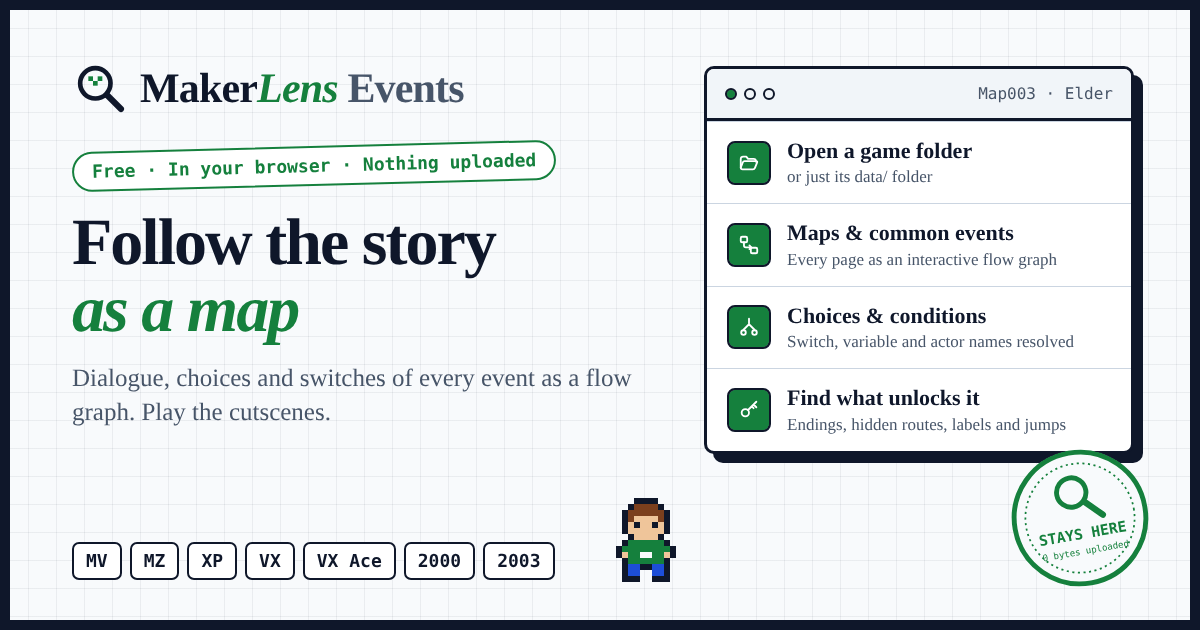
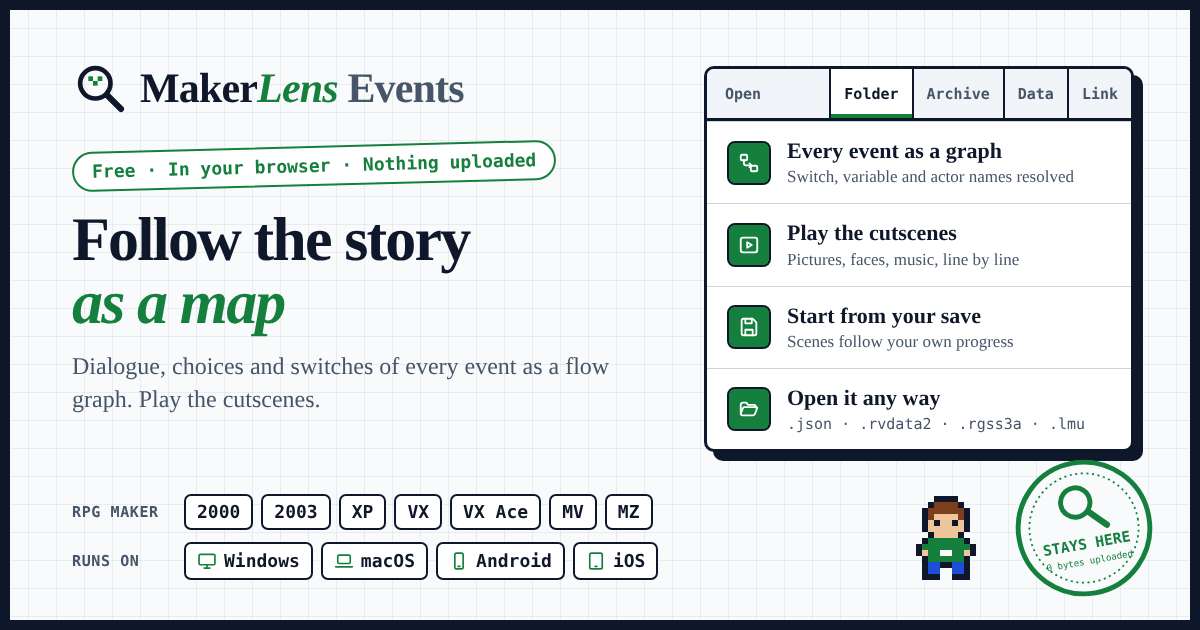
feat: versions in release order, new share image, family header in the app (#58)

diff --git a/faq.html b/faq.html
@@ -10,20 +10,20 @@
      (js/analytics.js). No feedback form here, so connect-src is 'none'. -->
 <meta http-equiv="Content-Security-Policy" content="default-src 'self'; script-src 'self'; style-src 'self'; img-src 'self' https://makerlens.goatcounter.com; connect-src 'none'; object-src 'none'; base-uri 'none'; form-action 'none'">
 <title>RPG Maker Event Viewer FAQ — Folders, Scenes, Saves | MakerLens</title>
-<meta name="description" content="How to view RPG Maker MV, MZ, VX Ace, VX, XP and 2000/2003 events without the editor: which folder to open, what the flow graph shows, finding what unlocks an ending, switch names, privacy.">
+<meta name="description" content="How to view RPG Maker 2000/2003, XP, VX, VX Ace, MV and MZ events without the editor: which folder to open, what the flow graph shows, finding what unlocks an ending, switch names, privacy.">
 <link rel="canonical" href="https://makerlens.kokoroou.workers.dev/events/faq.html"> <!-- nosemgrep: html.security.audit.missing-integrity.missing-integrity -- a canonical URL, not a fetched resource -->
 <meta property="og:type" content="website">
 <meta property="og:site_name" content="MakerLens">
 <meta property="og:url" content="https://makerlens.kokoroou.workers.dev/events/faq.html">
 <meta property="og:title" content="RPG Maker Event Viewer FAQ — Folders, Scenes, Saves | MakerLens">
-<meta property="og:description" content="View RPG Maker MV, MZ, VX Ace, VX, XP and 2000/2003 events as a flow graph without the editor: what to open, what the graph shows and how to find what unlocks an ending.">
+<meta property="og:description" content="View RPG Maker 2000/2003, XP, VX, VX Ace, MV and MZ events as a flow graph without the editor: what to open, what the graph shows and how to find what unlocks an ending.">
 <meta property="og:image" content="https://makerlens.kokoroou.workers.dev/events/og-image.png">
 <meta property="og:image:width" content="1200">
 <meta property="og:image:height" content="630">
 <meta property="og:image:alt" content="MakerLens Events — RPG Maker events as a flow graph, in your browser">
 <meta name="twitter:card" content="summary_large_image">
 <meta name="twitter:title" content="RPG Maker Event Viewer FAQ — Folders, Scenes, Saves | MakerLens">
-<meta name="twitter:description" content="View RPG Maker MV, MZ, VX Ace, VX, XP and 2000/2003 events as a flow graph without the editor: what to open, what the graph shows and how to find what unlocks an ending.">
+<meta name="twitter:description" content="View RPG Maker 2000/2003, XP, VX, VX Ace, MV and MZ events as a flow graph without the editor: what to open, what the graph shows and how to find what unlocks an ending.">
 <meta name="twitter:image" content="https://makerlens.kokoroou.workers.dev/events/og-image.png">
 <meta name="twitter:image:alt" content="MakerLens Events — RPG Maker events as a flow graph, in your browser">
 <!-- FAQPage: questions and answers must match the visible <details> below
@@ -62,7 +62,7 @@
       "name": "Which RPG Maker versions are supported?",
       "acceptedAnswer": {
         "@type": "Answer",
-        "text": "RPG Maker MZ, MV, VX Ace, VX, XP and 2000 / 2003. MV and MZ keep events in plain JSON. VX Ace, VX and XP keep them in Ruby files (.rvdata2, .rvdata, .rxdata), usually packed in Game.rgss3a, .rgss2a or .rgssad. Open the game folder and they are read from the archive in your browser. 2000 / 2003 keep them in RPG_RT.ldb, RPG_RT.lmt and Map####.lmu in the game folder itself. Their Japanese (Shift-JIS) or Western text is recognised, and scene previews take pictures from Picture/ and sound from Music/ and Sound/. For the images and audio of every version, use MakerLens Assets."
+        "text": "RPG Maker 2000 / 2003, XP, VX, VX Ace, MV and MZ. 2000 / 2003 keep events in RPG_RT.ldb, RPG_RT.lmt and Map####.lmu in the game folder itself. Their Japanese (Shift-JIS) or Western text is recognised, and scene previews take pictures from Picture/ and sound from Music/ and Sound/. XP, VX and VX Ace keep them in Ruby files (.rxdata, .rvdata, .rvdata2), usually packed in .rgssad, .rgss2a or Game.rgss3a. Open the game folder and they are read from the archive in your browser. MV and MZ keep them in plain JSON. For the images and audio of every version, use MakerLens Assets."
       }
     },
     {
@@ -244,7 +244,7 @@
 <main>
   <a class="back" href="./">← Back to MakerLens Events</a>
   <h1>RPG Maker event viewer FAQ</h1>
-  <p class="intro">MakerLens Events shows the events of an RPG Maker game (MV, MZ, VX Ace, VX, XP, 2000 or 2003) as a flow graph, right in your browser: dialogue, choices, conditions, labels and jumps, and it plays dialogue scenes. It works on released games, with no editor and no plugin. <strong>Your files never leave your device.</strong></p>
+  <p class="intro">MakerLens Events shows the events of an RPG Maker game (2000, 2003, XP, VX, VX Ace, MV or MZ) as a flow graph, right in your browser: dialogue, choices, conditions, labels and jumps, and it plays dialogue scenes. It works on released games, with no editor and no plugin. <strong>Your files never leave your device.</strong></p>
 
   <section class="howto lens-only" aria-labelledby="howto-title">
     <h2 class="group" id="howto-title">How to use</h2>
@@ -289,11 +289,11 @@
     </details>
     <details>
       <summary><h3>Which RPG Maker versions are supported?</h3></summary>
-      <p class="lead">RPG Maker MZ, MV, VX Ace, VX, XP and 2000 / 2003.</p>
+      <p class="lead">RPG Maker 2000 / 2003, XP, VX, VX Ace, MV and MZ.</p>
       <ul>
-        <li>MV and MZ keep events in plain JSON.</li>
-        <li>VX Ace, VX and XP keep them in Ruby files (<code>.rvdata2</code>, <code>.rvdata</code>, <code>.rxdata</code>), usually packed in <code>Game.rgss3a</code>, <code>.rgss2a</code> or <code>.rgssad</code>. Open the game folder and they are read from the archive in your browser.</li>
-        <li>2000 / 2003 keep them in <code>RPG_RT.ldb</code>, <code>RPG_RT.lmt</code> and <code>Map####.lmu</code> in the game folder itself. Their Japanese (Shift-JIS) or Western text is recognised, and scene previews take pictures from <code>Picture/</code> and sound from <code>Music/</code> and <code>Sound/</code>.</li>
+        <li>2000 / 2003 keep events in <code>RPG_RT.ldb</code>, <code>RPG_RT.lmt</code> and <code>Map####.lmu</code> in the game folder itself. Their Japanese (Shift-JIS) or Western text is recognised, and scene previews take pictures from <code>Picture/</code> and sound from <code>Music/</code> and <code>Sound/</code>.</li>
+        <li>XP, VX and VX Ace keep them in Ruby files (<code>.rxdata</code>, <code>.rvdata</code>, <code>.rvdata2</code>), usually packed in <code>.rgssad</code>, <code>.rgss2a</code> or <code>Game.rgss3a</code>. Open the game folder and they are read from the archive in your browser.</li>
+        <li>MV and MZ keep them in plain JSON.</li>
         <li>For the images and audio of every version, use <a href="../assets/">MakerLens Assets</a>.</li>
       </ul>
     </details>

diff --git a/index.html b/index.html
@@ -12,21 +12,21 @@
      The page makes no network requests with game data. -->
 <meta http-equiv="Content-Security-Policy" content="default-src 'self'; script-src 'self'; style-src 'self' 'unsafe-inline'; img-src 'self' data: blob: https://makerlens.goatcounter.com; connect-src 'self' https://feedback.kokoroou.workers.dev https://*.workers.dev; media-src 'self' blob:; object-src 'none'; base-uri 'none'; form-action 'none'">
 <title>RPG Maker Event Viewer — 2000 to MZ, Graph &amp; Scenes | MakerLens</title>
-<meta name="description" content="Free online RPG Maker event viewer. See the dialogue, choices, conditions and switches of any MV, MZ, VX Ace, VX, XP or 2000/2003 game as a flow graph, right in your browser. No project, no install, files never uploaded.">
+<meta name="description" content="Free online RPG Maker event viewer. See the dialogue, choices, conditions and switches of any 2000/2003, XP, VX, VX Ace, MV or MZ game as a flow graph, right in your browser. No project, no install, files never uploaded.">
 <meta name="keywords" content="RPG Maker event viewer, RPG Maker MV event flow, RPG Maker MZ events, common events viewer, RPG Maker switches, RPG Maker dialogue tree">
 <link rel="canonical" href="https://makerlens.kokoroou.workers.dev/events/"> <!-- nosemgrep: html.security.audit.missing-integrity.missing-integrity -- a canonical URL, not a fetched resource -->
 <meta property="og:type" content="website">
 <meta property="og:site_name" content="MakerLens">
 <meta property="og:url" content="https://makerlens.kokoroou.workers.dev/events/">
 <meta property="og:title" content="RPG Maker Event Viewer — 2000 to MZ, Graph &amp; Scenes | MakerLens">
-<meta property="og:description" content="See the event flow of any RPG Maker MV, MZ, VX Ace, VX, XP or 2000/2003 game as a node graph. Runs in your browser — your files are never uploaded.">
+<meta property="og:description" content="See the event flow of any RPG Maker 2000/2003, XP, VX, VX Ace, MV or MZ game as a node graph. Runs in your browser — your files are never uploaded.">
 <meta property="og:image" content="https://makerlens.kokoroou.workers.dev/events/og-image.png">
 <meta property="og:image:width" content="1200">
 <meta property="og:image:height" content="630">
 <meta property="og:image:alt" content="MakerLens Events — RPG Maker events as a flow graph, in your browser">
 <meta name="twitter:card" content="summary_large_image">
 <meta name="twitter:title" content="RPG Maker Event Viewer — 2000 to MZ, Graph &amp; Scenes | MakerLens">
-<meta name="twitter:description" content="See the event flow of any RPG Maker MV, MZ, VX Ace, VX, XP or 2000/2003 game as a node graph. Free, browser-based, files never uploaded.">
+<meta name="twitter:description" content="See the event flow of any RPG Maker 2000/2003, XP, VX, VX Ace, MV or MZ game as a node graph. Free, browser-based, files never uploaded.">
 <meta name="twitter:image" content="https://makerlens.kokoroou.workers.dev/events/og-image.png">
 <meta name="twitter:image:alt" content="MakerLens Events — RPG Maker events as a flow graph, in your browser">
 <!-- Structured data. The @id values are shared with the MakerLens landing page and
@@ -38,7 +38,7 @@
   "@id": "https://makerlens.kokoroou.workers.dev/events/#app",
   "name": "MakerLens Events",
   "alternateName": "MakerLens RPG Maker Event Viewer",
-  "description": "Browser-based, read-only viewer for RPG Maker MV, MZ, VX Ace, VX, XP and 2000/2003 events. Shows the dialogue, choices, conditions, switches, variables, labels and jumps of map and common events as an interactive flow graph. Files are processed locally and never uploaded.",
+  "description": "Browser-based, read-only viewer for RPG Maker 2000/2003, XP, VX, VX Ace, MV and MZ events. Shows the dialogue, choices, conditions, switches, variables, labels and jumps of map and common events as an interactive flow graph. Files are processed locally and never uploaded.",
   "url": "https://makerlens.kokoroou.workers.dev/events/",
   "image": "https://makerlens.kokoroou.workers.dev/events/og-image.png",
   "isAccessibleForFree": true,
@@ -46,7 +46,7 @@
   "operatingSystem": "Any (web browser)",
   "offers": { "@type": "Offer", "price": "0", "priceCurrency": "USD" },
   "featureList": [
-    "Open an RPG Maker MV, MZ, VX Ace, VX, XP or 2000/2003 game folder (or its data/ folder) in the browser",
+    "Open an RPG Maker 2000/2003, XP, VX, VX Ace, MV or MZ game folder (or its data/ folder) in the browser",
     "Browse maps in the editor's tree and list every event with commands",
     "Show each event page as a flow graph: dialogue, choices, conditional branches, labels and jumps",
     "Resolve switch, variable and actor names from the game's data",
@@ -179,7 +179,7 @@
           <button class="btn-primary btn-lg" id="open-game-btn">Select Game Folder</button>
           <div class="dz-hint">or drop the game folder (or its <code>data/</code> folder) anywhere on this page</div>
           <ul class="engine-chips" aria-label="Supported engines">
-            <li>MV</li><li>MZ</li><li>XP</li><li>VX</li><li>VX Ace</li><li>2000</li><li>2003</li>
+            <li>2000</li><li>2003</li><li>XP</li><li>VX</li><li>VX Ace</li><li>MV</li><li>MZ</li>
           </ul>
           <div id="setup-status" role="status"></div>
         </div>

diff --git a/css/lens.css b/css/lens.css
@@ -35,20 +35,28 @@
   #header :focus-visible, #toolbar :focus-visible { outline-offset: -2px; }  /* never clipped by the bar's edge */
   .btn-primary:focus-visible { outline-color: var(--t); }
 
-  /* ── Header ── */
-  #header { border-bottom: 1px solid var(--bd2); }
+  /* ── Header: the family's bar (Kokoroou/makerlens site/css/landing.css .top, css/family-chrome.css):
+     56px in all, a 2px ink rule under it, the lens mark in ink (24px, no box) with three green
+     pixels, the serif "Maker*Lens*" at 20px. On phones (<= 640px) the word goes and the mark
+     stays, followed by the tool's name chip. ── */
+  #header { height: var(--hh); border-bottom: 2px solid var(--t); }
   #logo {
-    font-family: var(--serif); font-size: 19px; font-weight: 700; letter-spacing: -.02em;
-    min-height: 44px; min-width: 44px;
+    font-family: var(--serif); font-size: 20px; font-weight: 700; letter-spacing: -.02em;
+    gap: 8px; min-height: 44px; min-width: 44px; color: var(--t);
   }
-  #logo span span { font-style: italic; }
+  #logo span span { font-style: italic; color: var(--a); }
   .logo-mark {
-    width: 32px; height: 32px;
-    border: 1px solid var(--t); border-radius: var(--r);
-    background: var(--s1); color: var(--t);
+    width: 24px; height: 24px;
+    border: 0; border-radius: 0; background: none; color: var(--t);
   }
   .logo-mark > svg:not(.lens-only) { display: none; }
+  .logo-mark svg.lens-only { display: block; width: 24px; height: 24px; color: var(--t); }
   .logo-mark .lp { fill: var(--a); }
+  @media (max-width: 640px) {
+    #logo .logo-full { display: none; }
+    #logo .logo-abbr { display: inline-flex; align-items: center; font-size: 0; }
+    #logo .logo-abbr .logo-sub { margin-left: 0; }
+  }
   .logo-sub {
     font: 700 12px/1 var(--mono); font-style: normal; letter-spacing: 0;
     color: var(--t2);
@@ -161,8 +169,8 @@
     background: var(--bg); border-bottom: 1px solid var(--bd2);
   }
   .lens-logo {
-    display: inline-flex; align-items: center; gap: 10px; min-height: 44px;
-    font: 700 19px/1 var(--serif); letter-spacing: -.02em; color: var(--t); text-decoration: none;
+    display: inline-flex; align-items: center; gap: 8px; min-height: 44px;
+    font: 700 20px/1 var(--serif); letter-spacing: -.02em; color: var(--t); text-decoration: none;
   }
   .lens-word span { font-style: italic; color: var(--a); }
   .lens-nav { display: flex; gap: 4px; margin-left: auto; }

diff --git a/css/family-chrome.css b/css/family-chrome.css
@@ -12,7 +12,7 @@
 :root[data-lens] .top { display: block; background: var(--bg); border-bottom: 2px solid var(--t); position: sticky; top: 0; z-index: 20; }
 :root[data-lens] .top a, :root[data-lens] .foot a { text-decoration-color: var(--a); text-decoration-thickness: 2px; text-underline-offset: 3px; }
 :root[data-lens] .wrap { width: 100%; max-width: 1200px; margin: 0 auto; padding: 0 24px; }
-:root[data-lens] .bar { display: flex; align-items: center; justify-content: space-between; gap: 16px; min-height: 56px; }
+:root[data-lens] .bar { display: flex; align-items: center; justify-content: space-between; gap: 16px; min-height: 54px; }
 :root[data-lens] .brand { display: inline-flex; align-items: center; gap: 8px; min-height: 44px; text-decoration: none; font: 700 20px/1 var(--chrome-serif); letter-spacing: -.02em; color: var(--t); }
 :root[data-lens] .brand b { font-weight: 700; font-style: italic; color: var(--a); }
 :root[data-lens] .brand:hover { color: var(--t); }
@@ -54,7 +54,7 @@
 }
 @media (max-width: 640px) {
   :root[data-lens] .wrap { padding: 0 16px; }
-  :root[data-lens] .bar { gap: 8px; min-height: 56px; }
+  :root[data-lens] .bar { gap: 8px; min-height: 54px; }
   :root[data-lens] .top .brand > span { display: none; }
   :root[data-lens] .top .brand { flex: none; min-width: 44px; justify-content: center; }
   :root[data-lens] .top nav { flex: 1 1 auto; justify-content: center; gap: 8px; }

diff --git a/README.md b/README.md
@@ -1,6 +1,6 @@
 # MakerLens Events
 
-See how an RPG Maker game's events work: dialogue, choices and conditions as an interactive flow graph, and its cutscenes played like in the game, right in your browser. Supports **MV, MZ, VX Ace, VX, XP, 2000 and 2003**. Read-only, and everything runs on your device: your game files are never uploaded or modified.
+See how an RPG Maker game's events work: dialogue, choices and conditions as an interactive flow graph, and its cutscenes played like in the game, right in your browser. Supports **2000, 2003, XP, VX, VX Ace, MV and MZ**. Read-only, and everything runs on your device: your game files are never uploaded or modified.
 
 **[Try it live →](https://makerlens.kokoroou.workers.dev/events/)**
 
@@ -32,9 +32,9 @@ Desktop Chrome, Edge, Firefox and Brave work best; phone browsers may not offer 
 
 | Engine | Where the events are read from |
 |--------|--------|
-| MV / MZ | `data/*.json` (MV: `www/data/`) |
-| VX Ace / VX / XP | `Data/*.rvdata2` / `.rvdata` / `.rxdata` (Ruby Marshal, `js/rgss.js`), also from `Game.rgss3a` / `.rgss2a` / `.rgssad` |
 | 2000 / 2003 | `RPG_RT.lmt` / `RPG_RT.ldb` / `Map####.lmu` (LCF, `js/lcf.js`); Shift-JIS or Western text detected |
+| XP / VX / VX Ace | `Data/*.rxdata` / `.rvdata` / `.rvdata2` (Ruby Marshal, `js/rgss.js`), also from `.rgssad` / `.rgss2a` / `Game.rgss3a` |
+| MV / MZ | `data/*.json` (MV: `www/data/`) |
 
 Save files for **Use a save**: `.rpgsave`, `.rmmzsave`, `.rvdata2`, `.rvdata`, `.rxdata` (`js/save.js`). Formats and algorithms are documented in the code comments.
 
